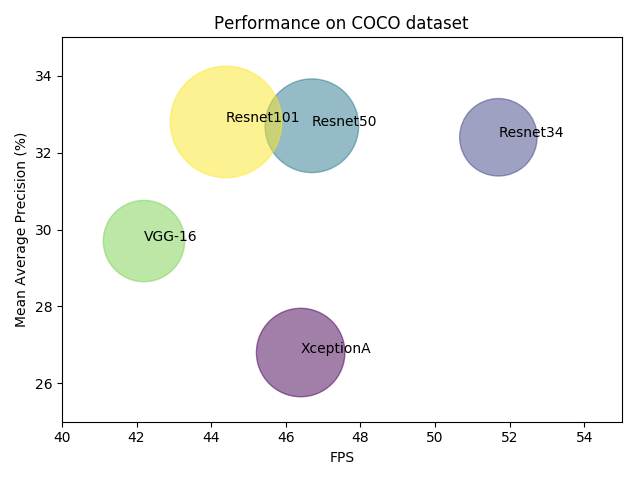
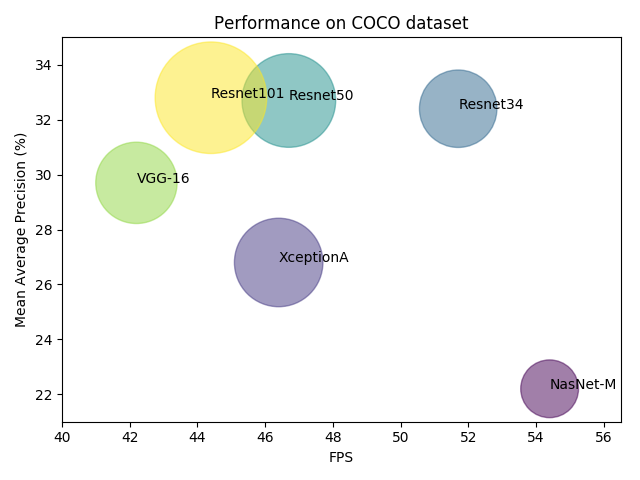
Updates from Overleaf

diff --git a/chapters/chap04.tex b/chapters/chap04.tex
@@ -44,7 +44,7 @@ Our general strategy was to find the deepest layer with size as close as possibl
     \centering
     \resnetSSD
     \caption[Resnet34-SSD and Xception-SSD]%
-    {Resnet34-SSD(left) and XceptionA-SSD (right). For details on \textit{Layers} and \textit{Blocks} see \cref{fig:resnet_arch} and \cref{fig:xception} respectively. Base networks are highlighted with a blue rectangle and extra layers with a red dashed one.}
+    {Resnet34-SSD(left) and XceptionA-SSD (right). For details on \textit{Layers} and \textit{Blocks} see \cref{fig:resnet_arch} and \cref{fig:xception} respectively. Extra layers are highlighted with a red dashed rectangle.}
 
     \label{fig:resnet_xception_SSD}
 \end{figure}
@@ -95,30 +95,50 @@ Training a network on a subset of larger dataset seems to be a straightforward t
 
 For example, consider a dataset of humans and monkeys. The networks learns to distinguish between the two and classifies everything else as a background. If we do not care about monkeys, we can simply filter them out in post-processing. However, consider a network that is trained to only recognize people and use it on a monkey. We are worried that such network would classify a monkey as a person, based on a large number of similar features. 
 
-To counter-measure the possibility of larger amount of false positives, we decided to increase the amount of negative samples. We did it by only filtering annotation from \textit{COCO} dataset to create the \textit{surveillance dataset}, but keeping all the images, even those without positive ground-truths. The expectation is to reach similar precision on selected classes, on both \textit{COCO} and \textit{surveillance dataset}. However, because \textit{COCO} is small dataset with only about hundred thousand images and is certainly not exhaustive in classes with similar features to \textit{surveillance dataset}, this measure would only help our evaluation data.
+To counter-measure the possibility of larger amount of false positives, we decided to increase the amount of negative samples. We did it by only filtering annotation from \textit{COCO} dataset to create the \textit{surveillance dataset}, but keeping all the images, even those without positive ground-truths. The expectation is to reach similar precision on selected classes, on both \textit{COCO} and \textit{surveillance dataset}. However, because \textit{COCO} is small dataset with only about hundred thousand images and is certainly not exhaustive in classes with similar features to \textit{surveillance dataset}, this measure would only help on our evaluation data.
 
+\paragraph{Results} in \cref{tab:ssdcocosurv} show that it is possible to remove unnecessary classes from the dataset without impacting the performance. We tested the approach on multiple architectures, and the results do not conclusively favor one dataset over the other. 
 
+\begin{table}[]
+    \centering
+    \begin{tabular}{c|c|c}
+         & COCO & Surveillance  \\
+         \hline
+        ResNet34 & 47.3 & 47.3 \\
+        ResNet50 & 46.6 & 48.7 \\
+        ResNet101 & 47.2 & 45.7 \\
+        XceptionA & 39.4 & 37.8 \\
+        NASNet & & 36.9 
+    \end{tabular}
+    \caption[SSD's precision comparison between COCO and surveillance datasets]{Mean average precision of \textit{surveillance} classes. Comparing networks trained on all 80 classes of \textit{COCO} dataset and \textit{surveillance} subset of \textit{COCO}.}
+    \label{tab:ssdcocosurv}
+\end{table}
+\todo{nasnet data}
 
 \subsection{Performance impact}
+We expect proportional increase of performance with removal of the classes. We saw that in the SSD (\cref{fig:VGGSSD}) the depth of the classification layers is dependent on the number of classes. Another important factor is that smaller dimensions of detection tensors will result in faster post-processing, i.e., non-maximum suppression. 
+
+We illustrate the effect of number of detected classes on performance on \cref{fig:fpscls}, based on measured data. Although the relationship of frames per second and classes is hyperbolic, on the interval between 7 and 80 classes, we approximate the loss of 0.78 frames per second per class on ResNet50-SSD. This is a significant number and means that training the networks for special purposes can bring a large benefit as opposed to using a general detector for everything.
+
 \begin{figure}
     \centering
     \includegraphics[width=\textwidth]{img/fps_class}
-    \caption[Impact of number of classes on SSD performance]{Impact of number of classes on SSD performance.}
+    \caption[Impact of the number of classes on SSD performance]{Impact of the number of classes on SSD performance. Inference time values (1/fps) are linearly interpolated, the result is therefore hyperbolic approximation of frames per second.}
     \label{fig:fpscls}
 \end{figure}
-\todo{change img title}
+\todo{add NASNet data}
 
 
-
-\subsection{fixing Xception}
+\section{Modifying Xception}
 \label{sec:fixxception}
+
 
 
 \section{SSD-TC: SSD with temporal convolution}
 \begin{figure}
     \centering
     \ssdtc
-    \caption[SSDTC architecture]{SSDTC architecture on ResNet34 base. stride 1, no padding in the dimension of stacked features therefore no detections for first and last image, therefore efficiency grows with bigger chunks}
+    \caption[SSDTC architecture]{SSDTC architecture on ResNet34 base. stride 1, no padding in the dimension of stacked features therefore no detections for first and last two images, therefore efficiency grows with bigger chunks}
     \label{fig:ssdtc}
 \end{figure}
 

diff --git a/thesis.tex b/thesis.tex
@@ -153,15 +153,15 @@ TODO
 \include{chapters/chap03}
 \include{chapters/chap04}
 \include{chapters/chap05}
-\include{chapters/chap06}
-\include{chapters/chap99}
+% \include{chapters/chap06}
+% \include{chapters/chap99}
 
 %%% Bibliography
 \include{bibliography}
 
 \appendix
-\include{chapters/chapA}
-\include{chapters/chapB}
+% \include{chapters/chapA}
+% \include{chapters/chapB}
 
 
 %%% Figures used in the thesis (consider if this is needed)
